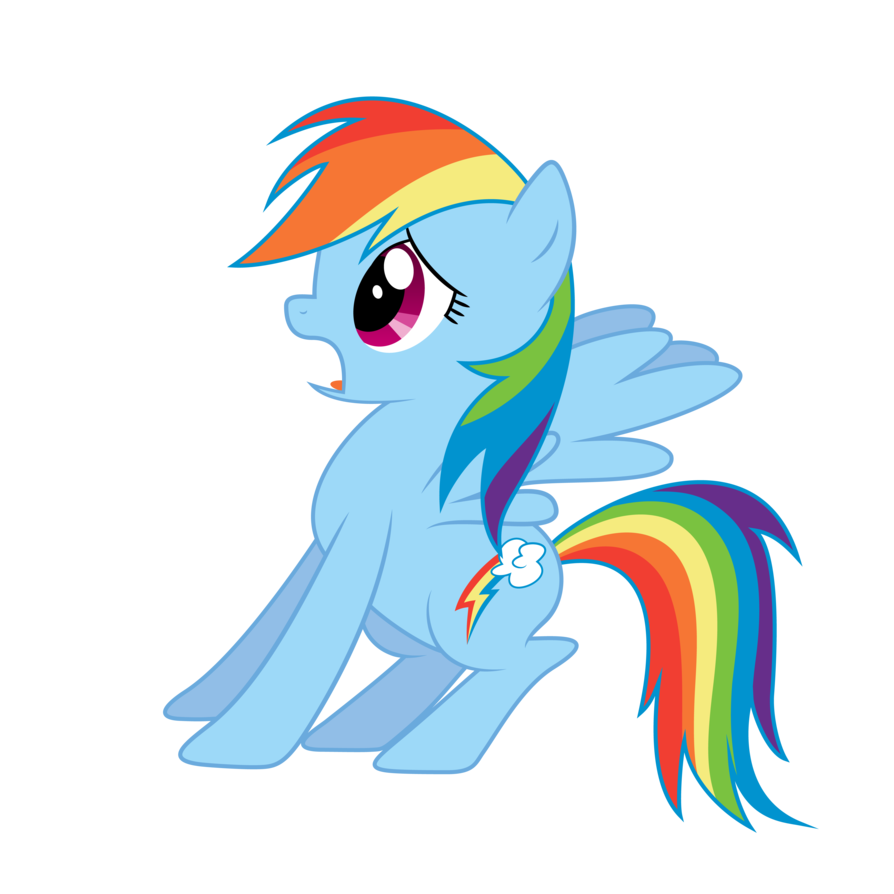
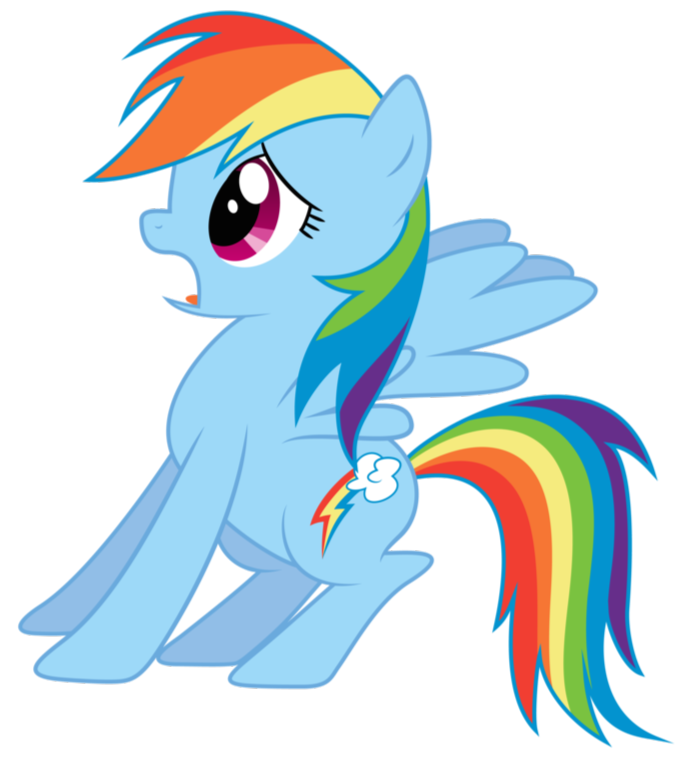
Implemented rotation of Fred's image

diff --git a/client/watchout.js b/client/watchout.js
@@ -6,7 +6,8 @@ var gameOptions = {
   height: 450,
   width: 700,
   nEnemies: 30,
-  padding: 30
+  padding: 30,
+  radius: 25
 };
 
 var gameStats = {
@@ -27,12 +28,12 @@ var axes = {
 var gameBoard = d3.select('.container').append('svg:svg')
             .attr('width', gameOptions.width)
             .attr('height', gameOptions.height);
-gameBoard.append('filter')
-          .attr('width', '100%')
-          .attr('height', '100%')
-          .attr('id', 'fred')
-          .append('feImage')
-          .attr('xlink:href', 'fred.svg');
+// gameBoard.append('filter')
+//           .attr('width', '100%')
+//           .attr('height', '100%')
+//           .attr('id', 'fred')
+//           .append('feImage')
+//           .attr('xlink:href', 'fred.svg');
 gameBoard.append('filter')
           .attr('width', '100%')
           .attr('height', '100%')
@@ -160,17 +161,31 @@ var createEnemies = function() {
 
 /* RENDERING THE GAME BOARD */
 
+
 var render = function(enemy_data) {
-  var enemies = gameBoard.selectAll('circle.enemy')
+  var enemies = gameBoard.selectAll('image.enemy')
     .data(enemy_data, function(d) { return d.id;});
+
     
   enemies.enter()
-    .append('svg:circle')
+    .append('svg:image')
       .attr('class', 'enemy')
-      .attr('cx', function(enemy) { return axes.x(enemy.x); })
-      .attr('cy', function(enemy) { return axes.y(enemy.y); })
+      .attr('height', (gameOptions.radius * 2))
+      .attr('width', (gameOptions.radius * 1.5))
+      .attr('x', function(enemy) { return axes.x(enemy.x) - gameOptions.radius; })
+      .attr('y', function(enemy) { return axes.y(enemy.y) - gameOptions.radius; })
       .attr('r', 25)
-      .attr('filter', 'url(#fred)');
+      .attr('xlink:href', 'fred.svg');
+
+  // function rotate() {
+  //     d3.selectAll('.enemy').transition().duration(1000).attr("transform", "rotate(10)")
+  //       .each("end", function() {
+  //         d3.selectAll(this).transition().duration(1000).attr("transform", "rotate(10)")
+  //           .each("end", function() { rotate(); });
+  //       });
+  // }
+
+// rotate();
 
     enemies.exit()
       .remove();
@@ -188,25 +203,6 @@ var render = function(enemy_data) {
   var throttledCollision = _.throttle(onCollision, 1000, {trailing: false});
 
   var checkCollision = function(enemy, cb) {
-    // var r = parseFloat(enemy.attr('r'));
-    // var minX = (parseFloat(enemy.attr('cx')) - r);
-    // var minY = (parseFloat(enemy.attr('cy')) - r);
-
-    // var maxX = (parseFloat(enemy.attr('cx')) + r);
-    // var maxY = (parseFloat(enemy.attr('cy')) + r);
-
-    // var currX = (parseFloat(player.element.attr('cx')));
-    // var currY = (parseFloat(player.element.attr('cy')));
-
-    // if(currX > minX && currX < maxX && currY > minY && currY < maxY) {
-    //   if (enemy.inCollision === false) {
-    //     console.log("collided!");
-    //     cb();
-    //     enemy.inCollision = true;
-    //   }
-    // } else {
-    //   enemy.inCollision = false;
-    // }
 
     //*Players x value
     var pX = parseFloat(player.element.attr('cx'));
@@ -215,9 +211,9 @@ var render = function(enemy_data) {
     //*Player r value
     var pR = parseFloat(player.element.attr('r'));
     //*Enemies x value
-    var eX = parseFloat(enemy.attr('cx'));
+    var eX = parseFloat(enemy.attr('x') + 25);
     //*Enemies y value
-    var eY = parseFloat(enemy.attr('cy'));
+    var eY = parseFloat(enemy.attr('y') + 25);
     //*Enemy r value
     var eR = parseFloat(enemy.attr('r'));
     //*Calculate Math.sqrt((px+ex)^2 + (py + ey)^2)
@@ -242,8 +238,8 @@ var render = function(enemy_data) {
     var enemy = d3.select(this);
     
     var startPos = {
-      x: parseFloat(enemy.attr('cx')),
-      y: parseFloat(enemy.attr('cy'))
+      x: parseFloat(enemy.attr('x')),
+      y: parseFloat(enemy.attr('y'))
     };
 
     var endPos = {
@@ -260,11 +256,11 @@ var render = function(enemy_data) {
       };
 
       // Uncomment below to stop enemies
-      // return enemy.attr('cx', startPos.x)
-      //   .attr('cy', startPos.y);
+      // return enemy.attr('x', startPos.x)
+      //   .attr('y', startPos.y);
 
-      return enemy.attr('cx', enemyNextPos.x)
-        .attr('cy', enemyNextPos.y);
+      return enemy.attr('x', enemyNextPos.x)
+        .attr('y', enemyNextPos.y);
     };
 
   };
@@ -274,7 +270,11 @@ var render = function(enemy_data) {
     .attr('r', 25)
   .transition()
     .duration(2000)
-    .tween('custom', transitionPlusCollisionDetection);
+    .tween('custom', transitionPlusCollisionDetection)
+  .transition();
+  // .transition()
+  //   .duration(1000)
+  //   .attr('transform', 'rotate(40)');
 };
 
 
@@ -301,11 +301,10 @@ var play = function() {
 
 play();
 
-// d3.select('svg')
-  // .on('mousemove', function() {
-  //   player.x = d3.mouse(this)[0];
-  //   player.y = d3.mouse(this)[1];
-  // })
+d3.select('svg')
+  .on('mousemove', function() {
+    console.log(d3.mouse(this)[0] + " " + d3.mouse(this)[1]);
+  })
   // .on('mouseleave', function() {
   //   updateBestScore();
   //   gameStats.score = 0;

diff --git a/client/styles.css b/client/styles.css
@@ -48,12 +48,17 @@ Feel free to use it if you like. */
   stroke-width: 1.5px;
 }
 
-/*.enemy {
-  pointer-events: none;
-}*/
+.enemy {
+  -webkit-animation:spin 4s linear infinite;
+  -webkit-transform-origin: 50% 50%;
+}
+
+
 
 .player {
   fill: yellow;
+  padding: 0;
+  margin: 0;
 }
 
 circle.area {
@@ -70,3 +75,5 @@ circle {
   stroke-width: 3;
   fill: red;
 }
+
+@-webkit-keyframes spin { 100% { -webkit-transform: rotate(360deg); } }
